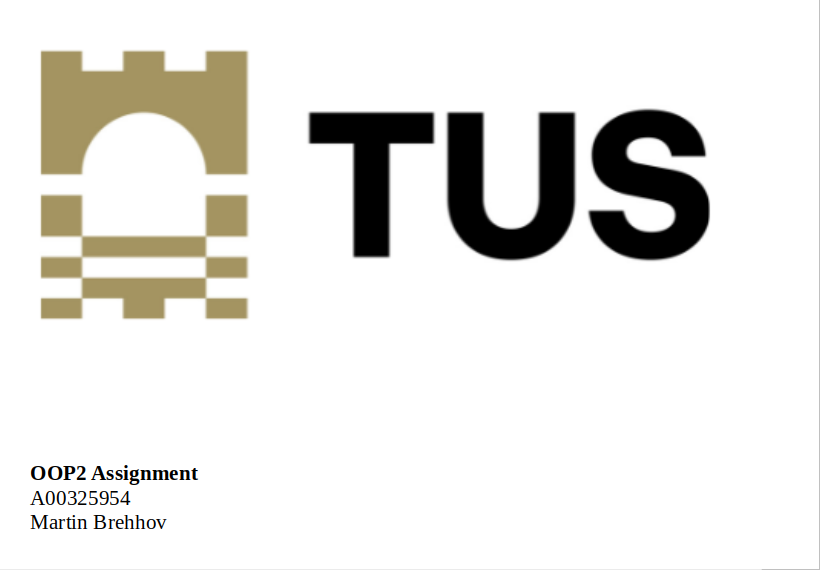
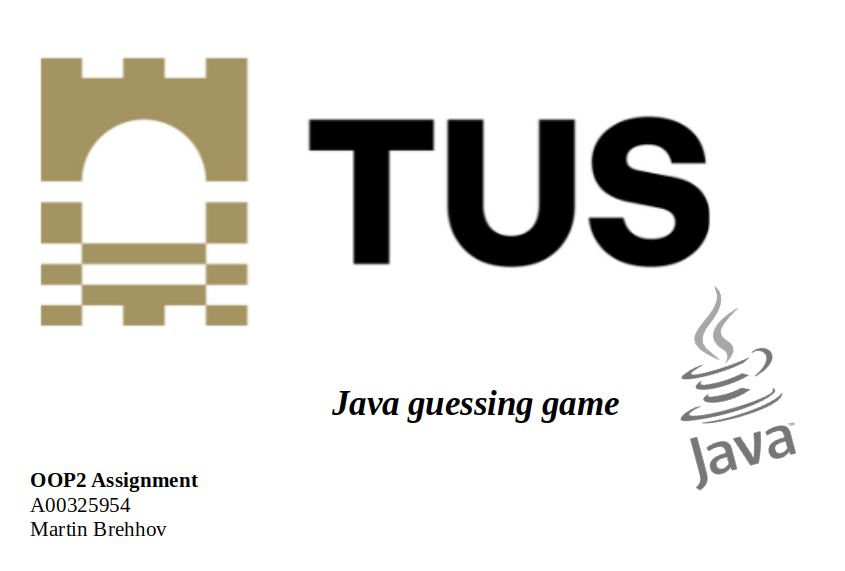
changed intro image; moved 'new game' button from gamepanel to intro panel

diff --git a/GuessGame/src/output/MainFrame.java b/GuessGame/src/output/MainFrame.java
@@ -19,7 +19,7 @@ public class MainFrame extends JPanel implements ActionListener {
 
     public void guip() {
         gp = new GamePanel(this); // add to list
-        ip = new IntroPanel();
+        ip = new IntroPanel(this);
         mainFrame = new JFrame();
         mainFrame.setSize(800, 600);
         mainFrame.setVisible(true);
@@ -49,8 +49,10 @@ public class MainFrame extends JPanel implements ActionListener {
     @Override
     public void actionPerformed(ActionEvent e) {
         String str = e.getActionCommand();
-        if (str.equals("new")) {
-
+        if (str.equals("new game")) {
+            mainFrame.remove(ip.getIntroPanel());
+            mainFrame.add(gp.getMainp());
+            //change panel
             // start new game
             cm = new ConsoleMenu();
             cm.newGame(gp.getjTextAreaQuestions(), gp.getOptions());

diff --git a/GuessGame/src/output/GamePanel.java b/GuessGame/src/output/GamePanel.java
@@ -34,7 +34,8 @@ public class GamePanel {
 
          jTextAreaQuestions = new JTextArea(10, 40);  // for question panel
 
-        JButton button1, button2;
+        //JButton button1, button2;
+        JButton button2;
     
 
         options = new HashSet<>();
@@ -109,12 +110,12 @@ public class GamePanel {
 
         JPanel panel3  = new JPanel();
 
-        button1 = new JButton("new");
+        //button1 = new JButton("new");
         button2 = new JButton("Submit");
-        button1.addActionListener(mainFrame);
+        //button1.addActionListener(mainFrame);
         button2.addActionListener(mainFrame);
         
-        panel3.add(button1);
+        //panel3.add(button1);
         
         jTextAreaQuestions.setEditable(false);
 

diff --git a/GuessGame/src/output/IntroPanel.java b/GuessGame/src/output/IntroPanel.java
@@ -18,15 +18,18 @@ public class IntroPanel extends JPanel {
     }
 
 
-    public IntroPanel() {
+    public IntroPanel(MainFrame mainFrame) {
         introPanel = new JPanel(new BorderLayout());
 
 
         
-    JButton button = new JButton("new game");
+      JButton button = new JButton("new game");
       button.setBackground(Color.blue);
       button.setForeground(Color.white);
     
+      button.addActionListener(mainFrame);
+
+
       JButton score = new JButton("high score");
       button.setBackground(Color.blue);
       button.setForeground(Color.white);
